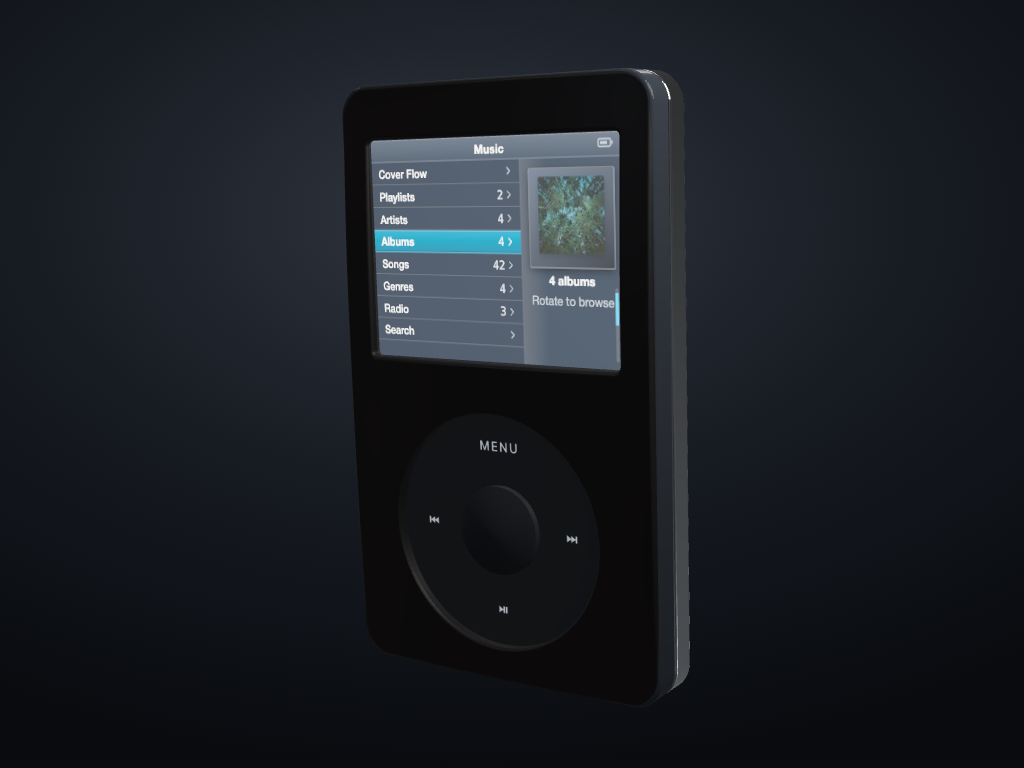
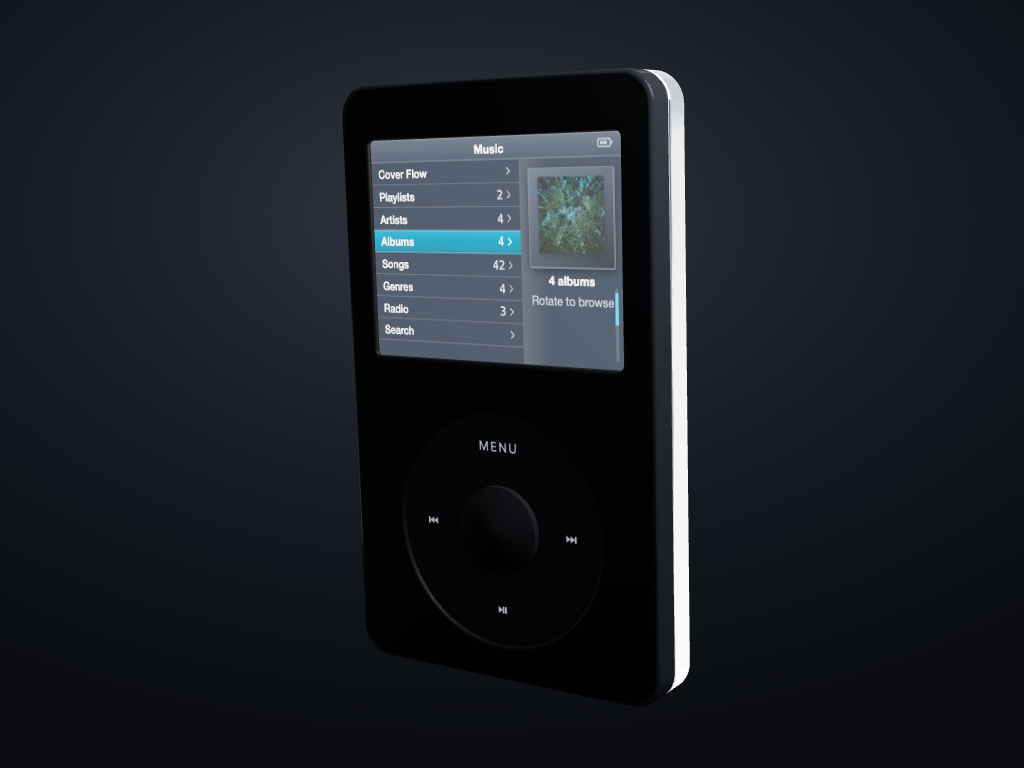
docs(device): record strict review corrections

diff --git a/docs/workstreams/002-implementation-spine/decisions/volumetric-device.md b/docs/workstreams/002-implementation-spine/decisions/volumetric-device.md
@@ -400,3 +400,49 @@ The root keeps `touch-action: none` as the pre-gesture pointer-routing contract;
 `user-select: none` exists only while the active gesture attribute is present.
 Outside text remains selectable, and focus, keyboard input, live DOM screen
 geometry, button presses, and assistive semantics remain unchanged.
+
+## VD-32 · Every front insert resolves from the crowned shell frame
+
+The first corner repair changed the shell's front surface but continued to
+place the display, glass, wheel, Select and invisible input annulus from the
+old planar `frontFaceZ`. That made the shell coherent in isolation while its
+siblings occupied a different depth frame.
+
+`front-surface.ts` is now the one resolver for the crowned shell offset and
+every front assembly depth. Rectangular inserts use the minimum shell offset
+sampled around their aperture; the wheel uses the minimum around all 256
+sampled opening points. The insert stack therefore remains recessed without
+intersecting the shell at corners or rotated poses. The production crown is a
+subtle 1.2 model units in each axis, and tests reject the former 6.2-unit value
+as a second chassis depth.
+
+## VD-33 · Explicit PMREM maps preserve authored material gain
+
+Installed Three 0.185.1 assigns `scene.environmentIntensity` whenever a
+material inherits `scene.environment`; it does not retain that material's
+`envMapIntensity`. Letting front materials inherit the room therefore collapsed
+all of their different gains to 0.20. Multiplying those authored gains by 0.20
+would apply the scene level a second time and crush black and glass instead.
+
+`StudioEnvironment` now publishes the generated PMREM texture to consumers in
+the same R3F scene. Front materials receive that texture explicitly and keep
+their authored response; a material without an authored gain falls back to the
+scene value. The steel rear alone keeps the calibrated mirror-room map. Tests
+consume the installed renderer source, prove the null-map override exists, and
+lock the explicit black, white and glass gains at 0.008, 0.0024 and 0.16.
+
+## VD-34 · Gesture callback failure is a terminal cancellation path
+
+Pointer capture and listeners are installed before an arc-start callback and
+remain active during arc-move callbacks. Either callback may throw; cleanup
+must therefore happen before the original error escapes. The production
+surface now routes both failure sites through the same cancellation path used
+by pointer cancel, blur and unmount, releases capture, removes listeners, and
+swallows only a secondary end-callback failure so the first error remains the
+one reported.
+
+The browser proof is no longer terminal-state-only. It observes the active
+gesture marker, a real touch detent, touch cancellation and a subsequent mouse
+gesture. It also performs native mouse selection on text outside the device
+instead of constructing a Range programmatically. The evidence summary records
+the exact reviewed commit and tree.

diff --git a/docs/workstreams/002-implementation-spine/evidence/volumetric-device-owner-correction.md b/docs/workstreams/002-implementation-spine/evidence/volumetric-device-owner-correction.md
@@ -91,7 +91,7 @@ UV lighting, and additive outgoing-light hooks.
 ```text
 bun run typecheck                     11/11 clean
 bun run lint                          exit 0
-bun test                              999 pass, 0 fail, 50,637 expects
+bun test                              1,006 pass, 0 fail, 50,930 expects
 bun run build                         exit 0
 bun run gates                         16 automated pass, 0 fail
 bunx playwright ... volumetric...     1 pass, 0 page errors
@@ -104,9 +104,25 @@ controls remain manual by repo gate definition.
 
 The browser summary is
 [`volumetric-device-owner-correction/summary.json`](./volumetric-device-owner-correction/summary.json).
-It records a source-health match, every pose's fitted projected bounds, a
+It records immutable source commit
+`4564973e10a655c4684189492afcdfaae042ca58`, tree
+`8fc7834ee389e60d1cfe1393c57e2980409de642`, a source-health match, every pose's fitted projected bounds, a
 375×812 mobile fit (`extentX 0.818667 ≤ limitX 0.818667`), exact DPR rasters,
 and no page errors.
+
+## Independent review corrections
+
+- The front shell, screen stack, click wheel, Select and interaction annulus now
+  resolve their z positions from one crowned-surface frame. Rectangular and
+  circular perimeter sampling proves no insert pierces the shell.
+- The generated RoomEnvironment PMREM is explicit on front materials, so
+  installed Three cannot replace black/white/glass gains with the scene-level
+  0.20 value. The steel rear remains the only legacy calibrated-map consumer.
+- Thrown arc-start and arc-move callbacks cancel capture and listeners before
+  rethrowing; planted failures prove a following gesture still works.
+- The browser test observes active touch state and a real detent before cancel,
+  then performs native mouse selection outside the device and proves wheel
+  activity preserves that external selection.
 
 ## Captures
 

diff --git a/docs/workstreams/002-implementation-spine/diary/volumetric-device.md b/docs/workstreams/002-implementation-spine/diary/volumetric-device.md
@@ -298,3 +298,27 @@ I wrote the final screenshots to a new evidence directory instead of reusing
 the older `volumetric-device-correction` paths. This avoids the stale-image
 failure mode that had made an earlier browser pass look like a lighting
 regression after the source had already changed.
+
+## Tuesday, September 1, 2026 — independent review corrections
+
+The geometry reviewer reproduced an installed-renderer behavior the source
+tests had missed: Three replaces a material's environment gain with the scene
+gain when `envMap` is null. The screenshots were real, but the per-material
+response we said they represented was not. The fix publishes the PMREM texture
+per scene and binds it explicitly to front materials, with tests against the
+installed renderer source. The same review then found the larger structural
+miss: the shell crown moved but all front inserts stayed in the planar frame.
+Those parts now resolve from one sampled crowned-surface contract.
+
+The interaction reviewer found that the selection teardown itself was sound,
+but a thrown start or move callback could strand capture around it. Both throw
+sites now cancel before rethrowing, and planted callback failures prove the
+next gesture remains usable. The browser evidence was also strengthened from
+synthetic/programmatic end states to an observed active touch gesture, real
+detent, cancellation recovery, and real mouse selection outside the device.
+
+The immutable browser run reviews commit `4564973e10a655c4684189492afcdfaae042ca58`
+and tree `8fc7834ee389e60d1cfe1393c57e2980409de642`. The full repository sweep is
+11/11 TypeScript projects, lint clean, 1,006 tests and 50,930 expectations,
+production build clean apart from the existing chunk warning, and 16 automated
+gates passing. The separate LCD suite remains 3/3 at DPR 1/2/3.
